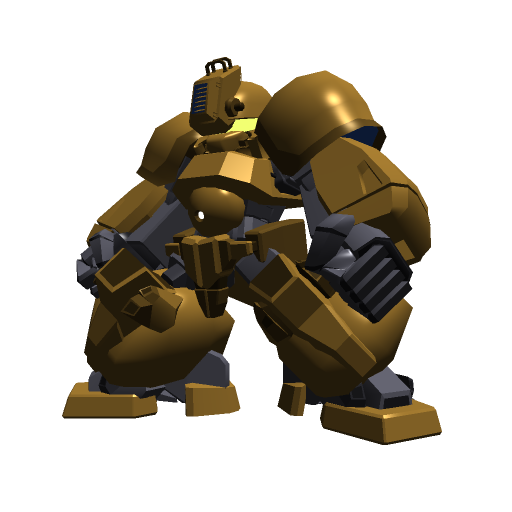
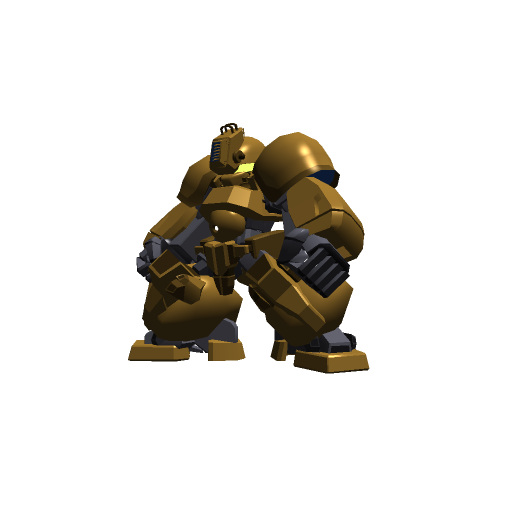
ネオランドーザのダメージモーションを作り直した

diff --git a/src/game-object/armdozer/neo-landozer/neo-landozer.js b/src/game-object/armdozer/neo-landozer/neo-landozer.js
@@ -4,7 +4,6 @@ import {ArmDozerSprite} from '../armdozer-sprite';
 import * as THREE from "three";
 import type {NeoLandozerModel} from "./model/neo-landozer-model";
 import type {NeoLandozerView} from "./view/neo-landozer-view";
-import {stand} from "./animation/stand";
 import {Observable} from "rxjs";
 import type {GameObjectAction} from "../../../action/game-object-action";
 import {createInitialValue} from "./model/initial-value";
@@ -12,6 +11,7 @@ import type {Update} from "../../../action/game-loop/update";
 import type {PreRender} from "../../../action/game-loop/pre-render";
 import {Animate} from "../../../animation/animate";
 import {knockBack} from "./animation/knock-back";
+import {knockBackToStand} from "./animation/knock-back-to-stand";
 
 /** ネオランドーザのゲームオブジェクト */
 export class NeoLandozer implements ArmDozerSprite {
@@ -31,15 +31,14 @@ export class NeoLandozer implements ArmDozerSprite {
     });
   }
 
-  /** 立ち状態にする */
-  stand(): Animate {
-    return stand(this._model);
-  }
-
-
-  /** ダメージアニメーションを再生する */
+  /** ノックバック */
   knockBack(): Animate {
     return knockBack(this._model);
+  }
+
+  /** ノックバック -> 立ち*/
+  knockBackToStand(): Animate {
+    return knockBackToStand(this._model);
   }
 
   /** シーンに追加するオブジェクトを取得する */

diff --git a/src/game-object/armdozer/shin-breaver/shin-braver.js b/src/game-object/armdozer/shin-breaver/shin-braver.js
@@ -3,7 +3,6 @@
 import {ArmDozerSprite} from '../armdozer-sprite';
 import * as THREE from "three";
 import type {ShinBraverView} from "./view/shin-braver-view";
-import {stand} from "./animation/stand";
 import {Observable} from "rxjs";
 import type {GameObjectAction} from "../../../action/game-object-action";
 import type {ShinBraverModel} from "./model/shin-braver-model";
@@ -32,11 +31,6 @@ export class ShinBraver implements ArmDozerSprite {
     });
   }
 
-  /** 立ちポーズにする */
-  stand(): Animate {
-    return stand(this._model);
-  }
-
   /** ストレートパンチ */
   straightPunch(): Animate {
     return straightPunch(this._model);
@@ -44,6 +38,13 @@ export class ShinBraver implements ArmDozerSprite {
 
   /** ダメージアニメーションを再生する */
   knockBack(): Animate {
+    // TODO アニメーションを実装する
+    return empty();
+  }
+
+  /** ノックバック -> 立ち */
+  knockBackToStand(): Animate {
+    // TODO アニメーションを実装する
     return empty();
   }
 

diff --git a/src/game-object/armdozer/neo-landozer/animation/knock-back.js b/src/game-object/armdozer/neo-landozer/animation/knock-back.js
@@ -5,18 +5,14 @@ import {Animate} from "../../../../animation/animate";
 import {process} from "../../../../animation/process";
 import {tween} from "../../../../animation/tween";
 import {empty} from "../../../../animation/delay";
+import {all} from "../../../../animation/all";
 
 /** ノックバック */
 export function knockBack(model: NeoLandozerModel): Animate {
   const motion = process(() => {
-    model.animation.frame = 0;
+    model.animation.frame = 1;
     model.animation.type = 'KNOCK_BACK';
-  }).chain(
-    tween(model.animation, t => t
-      .to({frame: 1}, 100)
-    )
-  );
-
+  });
   const position = tween(model.position, t => t
     .to({x: '+20'}, 100)
   ).chain(tween(model.position, t => t
@@ -24,7 +20,9 @@ export function knockBack(model: NeoLandozerModel): Animate {
   ));
 
   return empty().chain(
-    motion,
-    position
+    all(
+      motion,
+      position
+    )
   )
 }

diff --git a/src/game-object/armdozer/neo-landozer/animation/knock-back-to-stand.js b/src/game-object/armdozer/neo-landozer/animation/knock-back-to-stand.js
@@ -5,14 +5,19 @@ import {Animate} from "../../../../animation/animate";
 import {process} from "../../../../animation/process";
 import {tween} from "../../../../animation/tween";
 
-/** ノックバックからの復帰 */
-export function recoverKnockBack(model: NeoLandozerModel): Animate {
+/** ノックバック -> 立ち */
+export function knockBackToStand(model: NeoLandozerModel): Animate {
   return process(() => {
     model.animation.frame = 1;
     model.animation.type = 'KNOCK_BACK';
   }).chain(
     tween(model.animation, t => t
-      .to({frame: 0}, 500)
+      .to({frame: 0}, 300)
     )
+  ).chain(
+    process(() => {
+      model.animation.frame = 0;
+      model.animation.type = 'STAND';
+    })
   );
 }

diff --git a/src/game-object/armdozer/neo-landozer/mesh/knock-back.js b/src/game-object/armdozer/neo-landozer/mesh/knock-back.js
@@ -5,9 +5,9 @@ import type {Resources} from "../../../../resource/index";
 import {TEXTURE_IDS} from "../../../../resource/texture";
 import {HorizontalAnimationMesh} from "../../mesh/horizontal-animation-mesh";
 
-export const MAX_ANIMATION = 8;
-export const MESH_WIDTH = 360;
-export const MESH_HEIGHT = 360;
+export const MAX_ANIMATION = 4;
+export const MESH_WIDTH = 600;
+export const MESH_HEIGHT = 600;
 
 /** ネオラインドーザダメージポーズ */
 export function neoLandozerKnockBack(resources: Resources): ArmdozerMesh {

diff --git a/src/game-object/armdozer/neo-landozer/mesh/stand.js b/src/game-object/armdozer/neo-landozer/mesh/stand.js
@@ -6,8 +6,8 @@ import {TEXTURE_IDS} from "../../../../resource/texture";
 import {HorizontalAnimationMesh} from "../../mesh/horizontal-animation-mesh";
 
 export const MAX_ANIMATION = 1;
-export const MESH_WIDTH = 360;
-export const MESH_HEIGHT = 360;
+export const MESH_WIDTH = 600;
+export const MESH_HEIGHT = 600;
 
 /** ネオラインドーザ立ちポーズ */
 export function neoLandozerStand(resources: Resources): ArmdozerMesh {

diff --git a/src/game-object/armdozer/armdozer-sprite.js b/src/game-object/armdozer/armdozer-sprite.js
@@ -8,9 +8,9 @@ export interface ArmDozerSprite {
   /** シーンに追加するオブジェクトを取得する */
   getObject3D(): THREE.Object3D;
 
-  /** 立ちポーズにする */
-  stand(): Animate;
-
   /** ノックバックアニメーションを再生する */
   knockBack(): Animate;
+
+  /** ノックバック -> 立ちポーズ */
+  knockBackToStand(): Animate;
 }

diff --git a/src/scene/battle/animation/state-history/battle/shin-braver.js b/src/scene/battle/animation/state-history/battle/shin-braver.js
@@ -19,8 +19,7 @@ export function shinBraverAttack(attacker: ShinBraver, objects: BattleObjects): 
       )
   ).chain(
     all(
-      attacker.stand(),
-      objects.defender.sprite.stand()
+      objects.defender.sprite.knockBackToStand()
     )
   ).chain(
     delay(500)

diff --git a/src/game-object/armdozer/shin-breaver/animation/straight-punch.js b/src/game-object/armdozer/shin-breaver/animation/straight-punch.js
@@ -37,5 +37,10 @@ export function straightPunch(model: ShinBraverModel): Animate {
     tween(model.animation, t => t
       .to({frame: 1}, 500)
     )
+  ).chain(
+    process(() => {
+      model.animation.type = 'STAND';
+      model.animation.frame = 0;
+    })
   )
 }

diff --git a/src/resource/texture.js b/src/resource/texture.js
@@ -61,7 +61,6 @@ export const TEXTURE_CONFIGS: TextureConfig[] = [
     id: TEXTURE_IDS.NEO_LANDOZER_KNOCK_BACK,
     path: 'armdozer/neo-landozer/knock-back.png'
   },
-
   // 青空スカイボックス関連
   {
     id: TEXTURE_IDS.BLUE_SKY_FRONT,
